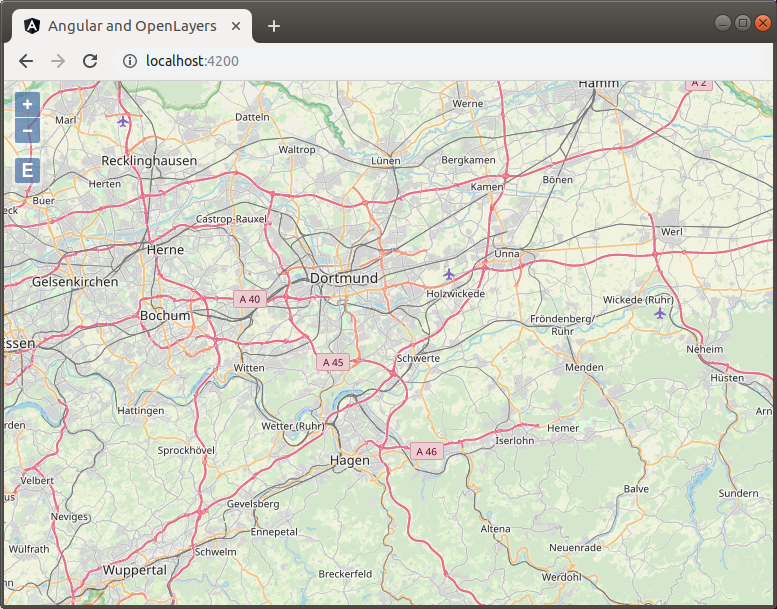
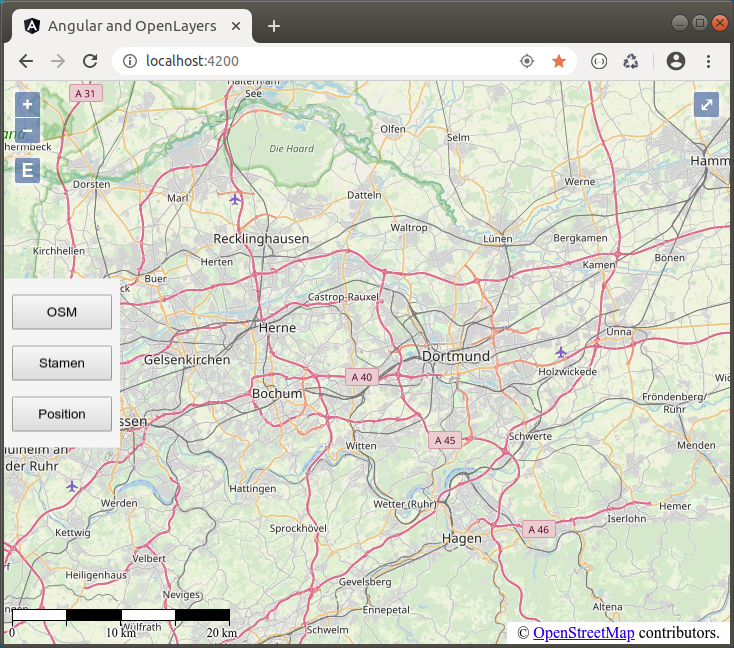
Added some controls and improved source handling for the base layer

diff --git a/src/model/geo.ts b/src/model/geo.ts
@@ -1,37 +1,51 @@
 import Map from 'ol/Map';
 import View from 'ol/View';
-import TileLayer from 'ol/layer/Tile';
-import XYZ from 'ol/source/XYZ';
+import LayerTile from 'ol/layer/Tile';
 import ZoomToExtent from 'ol/control/ZoomToExtent';
-
+import FullScreen from 'ol/control/FullScreen';
+import ScaleLine from 'ol/control/ScaleLine';
+import Attribution from 'ol/control/Attribution';
+import SourceOsm from 'ol/source/OSM';
+import SourceStamen from 'ol/source/Stamen';
 import { fromLonLat } from 'ol/proj';
 import { defaults as defaultControls } from 'ol/control';
 import { defaults as defaultInteractions, PinchZoom } from 'ol/interaction';
 
 /**
- * Geo.
+ * Geographical map containing some basic controls and two sources for its base layer.
  */
 export class Geo {
 
-  /* Map. */
-  public readonly map: Map;
+  /** Map. */
+  readonly map: Map;
+
+  /** Layer. */
+  readonly layerTile: LayerTile;
+
+  /** Sources. */
+  readonly sources: { readonly osm: SourceOsm; readonly stamen: SourceStamen; };
 
   /**
    * Initialise the map.
    * @param view View with initial center and zoom.
    */
   constructor(view: { zoom: number; center: [number, number]; } = { zoom: 2, center: [0, 0] }) {
+    this.sources = {
+      osm: new SourceOsm(),
+      stamen: new SourceStamen({ layer: 'toner' })
+    };
+
+    this.layerTile = new LayerTile({
+      source: this.sources.osm
+    });
+
     this.map = new Map({
       target: 'map',
       interactions: defaultInteractions().extend([
         new PinchZoom()
       ]),
       layers: [
-        new TileLayer({
-          source: new XYZ({
-            url: 'https://{a-c}.tile.openstreetmap.org/{z}/{x}/{y}.png'
-          })
-        })
+        this.layerTile
       ],
       view: new View({
         center: fromLonLat(view.center),
@@ -39,11 +53,17 @@ export class Geo {
         constrainResolution: true
       }),
       controls: defaultControls().extend([
+        new Attribution(),
         new ZoomToExtent({
           extent: [
             813079.7791264898, 5929220.284081122,
             848966.9639063801, 5936863.986909639
           ]
+        }),
+        new FullScreen(),
+        new ScaleLine({
+          bar: true,
+          minWidth: 150
         })
       ])
     });
@@ -57,5 +77,13 @@ export class Geo {
   setView(zoom: number, center: [number, number]) {
     this.map.getView().setZoom(10);
     this.map.getView().setCenter(fromLonLat(center));
+  }
+
+  /**
+   * Sets the source of the base layer.
+   * @param source Source.
+   */
+  setSource(source: 'osm' | 'stamen') {
+    this.layerTile.setSource(this.sources[source]);
   }
 }

diff --git a/src/app/app.component.scss b/src/app/app.component.scss
@@ -5,25 +5,23 @@
 
 .controls {
   position: absolute;
-  bottom: 0;
+  top: 50%;
   left: 0;
-  padding: 24px;
-  margin: 24px;
   background-color: #f5f5f5;
-  opacity: 0.5;
-  border-radius: 4px;
-  transition: opacity 0.5s ease-in-out;
+  transform: translateY(-50%);
 
-  &:hover {
-    opacity: 1;
-  }
+  ul {
+    margin: 0;
+    list-style-type: none;
+    padding: 0.5em;
 
-  button {
-    padding: 8px;
+    li {
+      padding: 0.5em 0;
 
-    &:not(:last-child) {
-      margin-right: 8px;
+      button {
+        padding: 8px;
+        width: 100px;
+      }
     }
   }
 }
-

diff --git a/src/app/app.component.html b/src/app/app.component.html
@@ -1,5 +1,15 @@
 <div id="map" class="map"></div>
 
 <div class="controls">
-  <button [disabled]="!geolocation" (click)="locate()">My position</button>
+  <ul>
+    <li>
+      <button (click)="geo.setSource('osm')">OSM</button>
+    </li>
+    <li>
+      <button (click)="geo.setSource('stamen')">Stamen</button>
+    </li>
+    <li>
+      <button [disabled]="!geolocation" (click)="locate()">Position</button>
+    </li>
+  </ul>
 </div>

diff --git a/src/index.html b/src/index.html
@@ -1,5 +1,5 @@
 <!doctype html>
-<html lang="de">
+<html lang="en">
 <head>
   <meta charset="utf-8">
   <title>Angular and OpenLayers</title>
